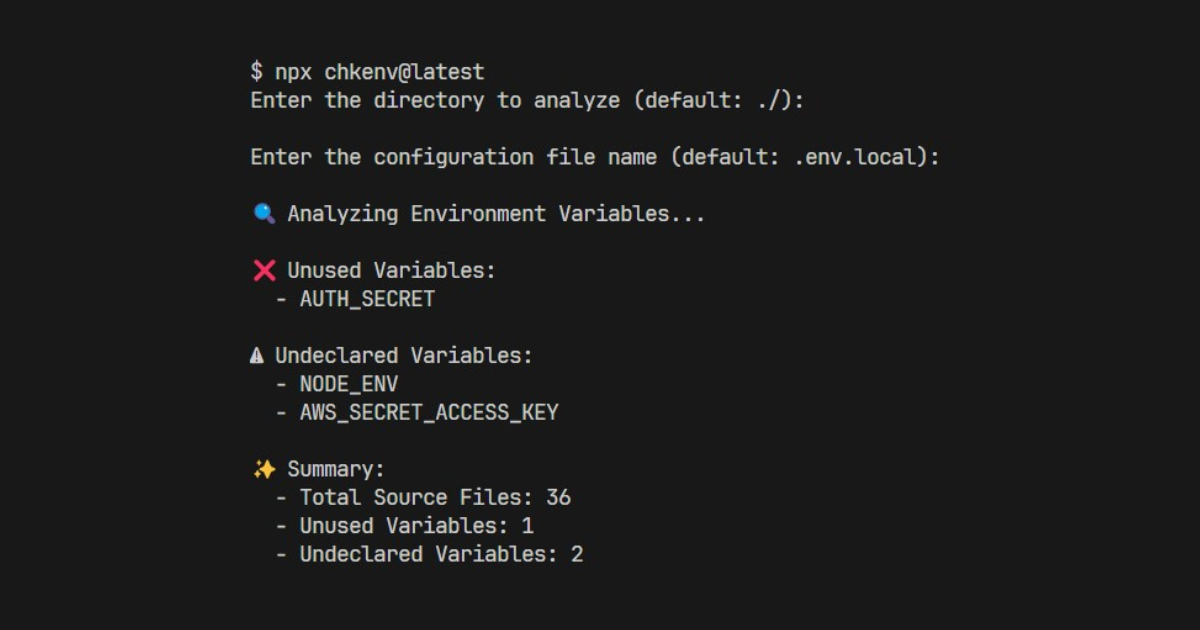
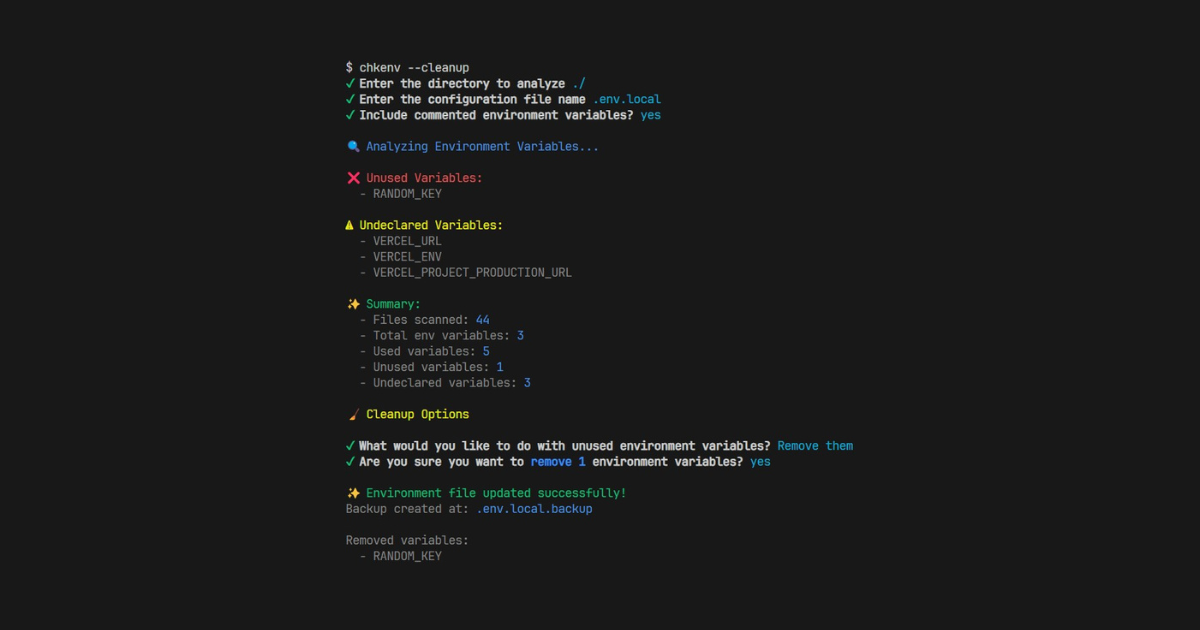
updated docs

Changed region(s): [[0.185, 0.0905, 0.7708, 0.9048]]

diff --git a/cli/README.md b/cli/README.md
@@ -111,17 +111,32 @@ When cleaning up unused variables, chkenv offers three backup options:
 Example backup workflow:
 
 ```bash
-$ chkenv -d
+$ chkenv --cleanup
 🔍 Analyzing Environment Variables...
 ❌ Unused Variables:
   - API_KEY
   - STRIPE_SECRET
+✨ Summary:
+  - Files scanned: 42
+  - Total env variables: 15
+  - Used variables: 13
+  - Unused variables: 2
+  - Undeclared variables: 0
 🧹 Cleanup Options
-? What would you like to do with unused variables? Comment them out
+? What would you like to do with unused environment variables?
+> Keep them as is
+Remove them
+Comment them out
+? Are you sure you want to comment out 2 environment variables? (y/N)
 ? A backup file already exists. What would you like to do?
 > Overwrite existing backup
 Create new backup file
 Specify custom backup name
+✨ Environment file updated successfully!
+Backup created at: .env.local.backup
+Commented out variables:
+  - # API_KEY
+  - # STRIPE_SECRET
 ```
 
 ## File Support
